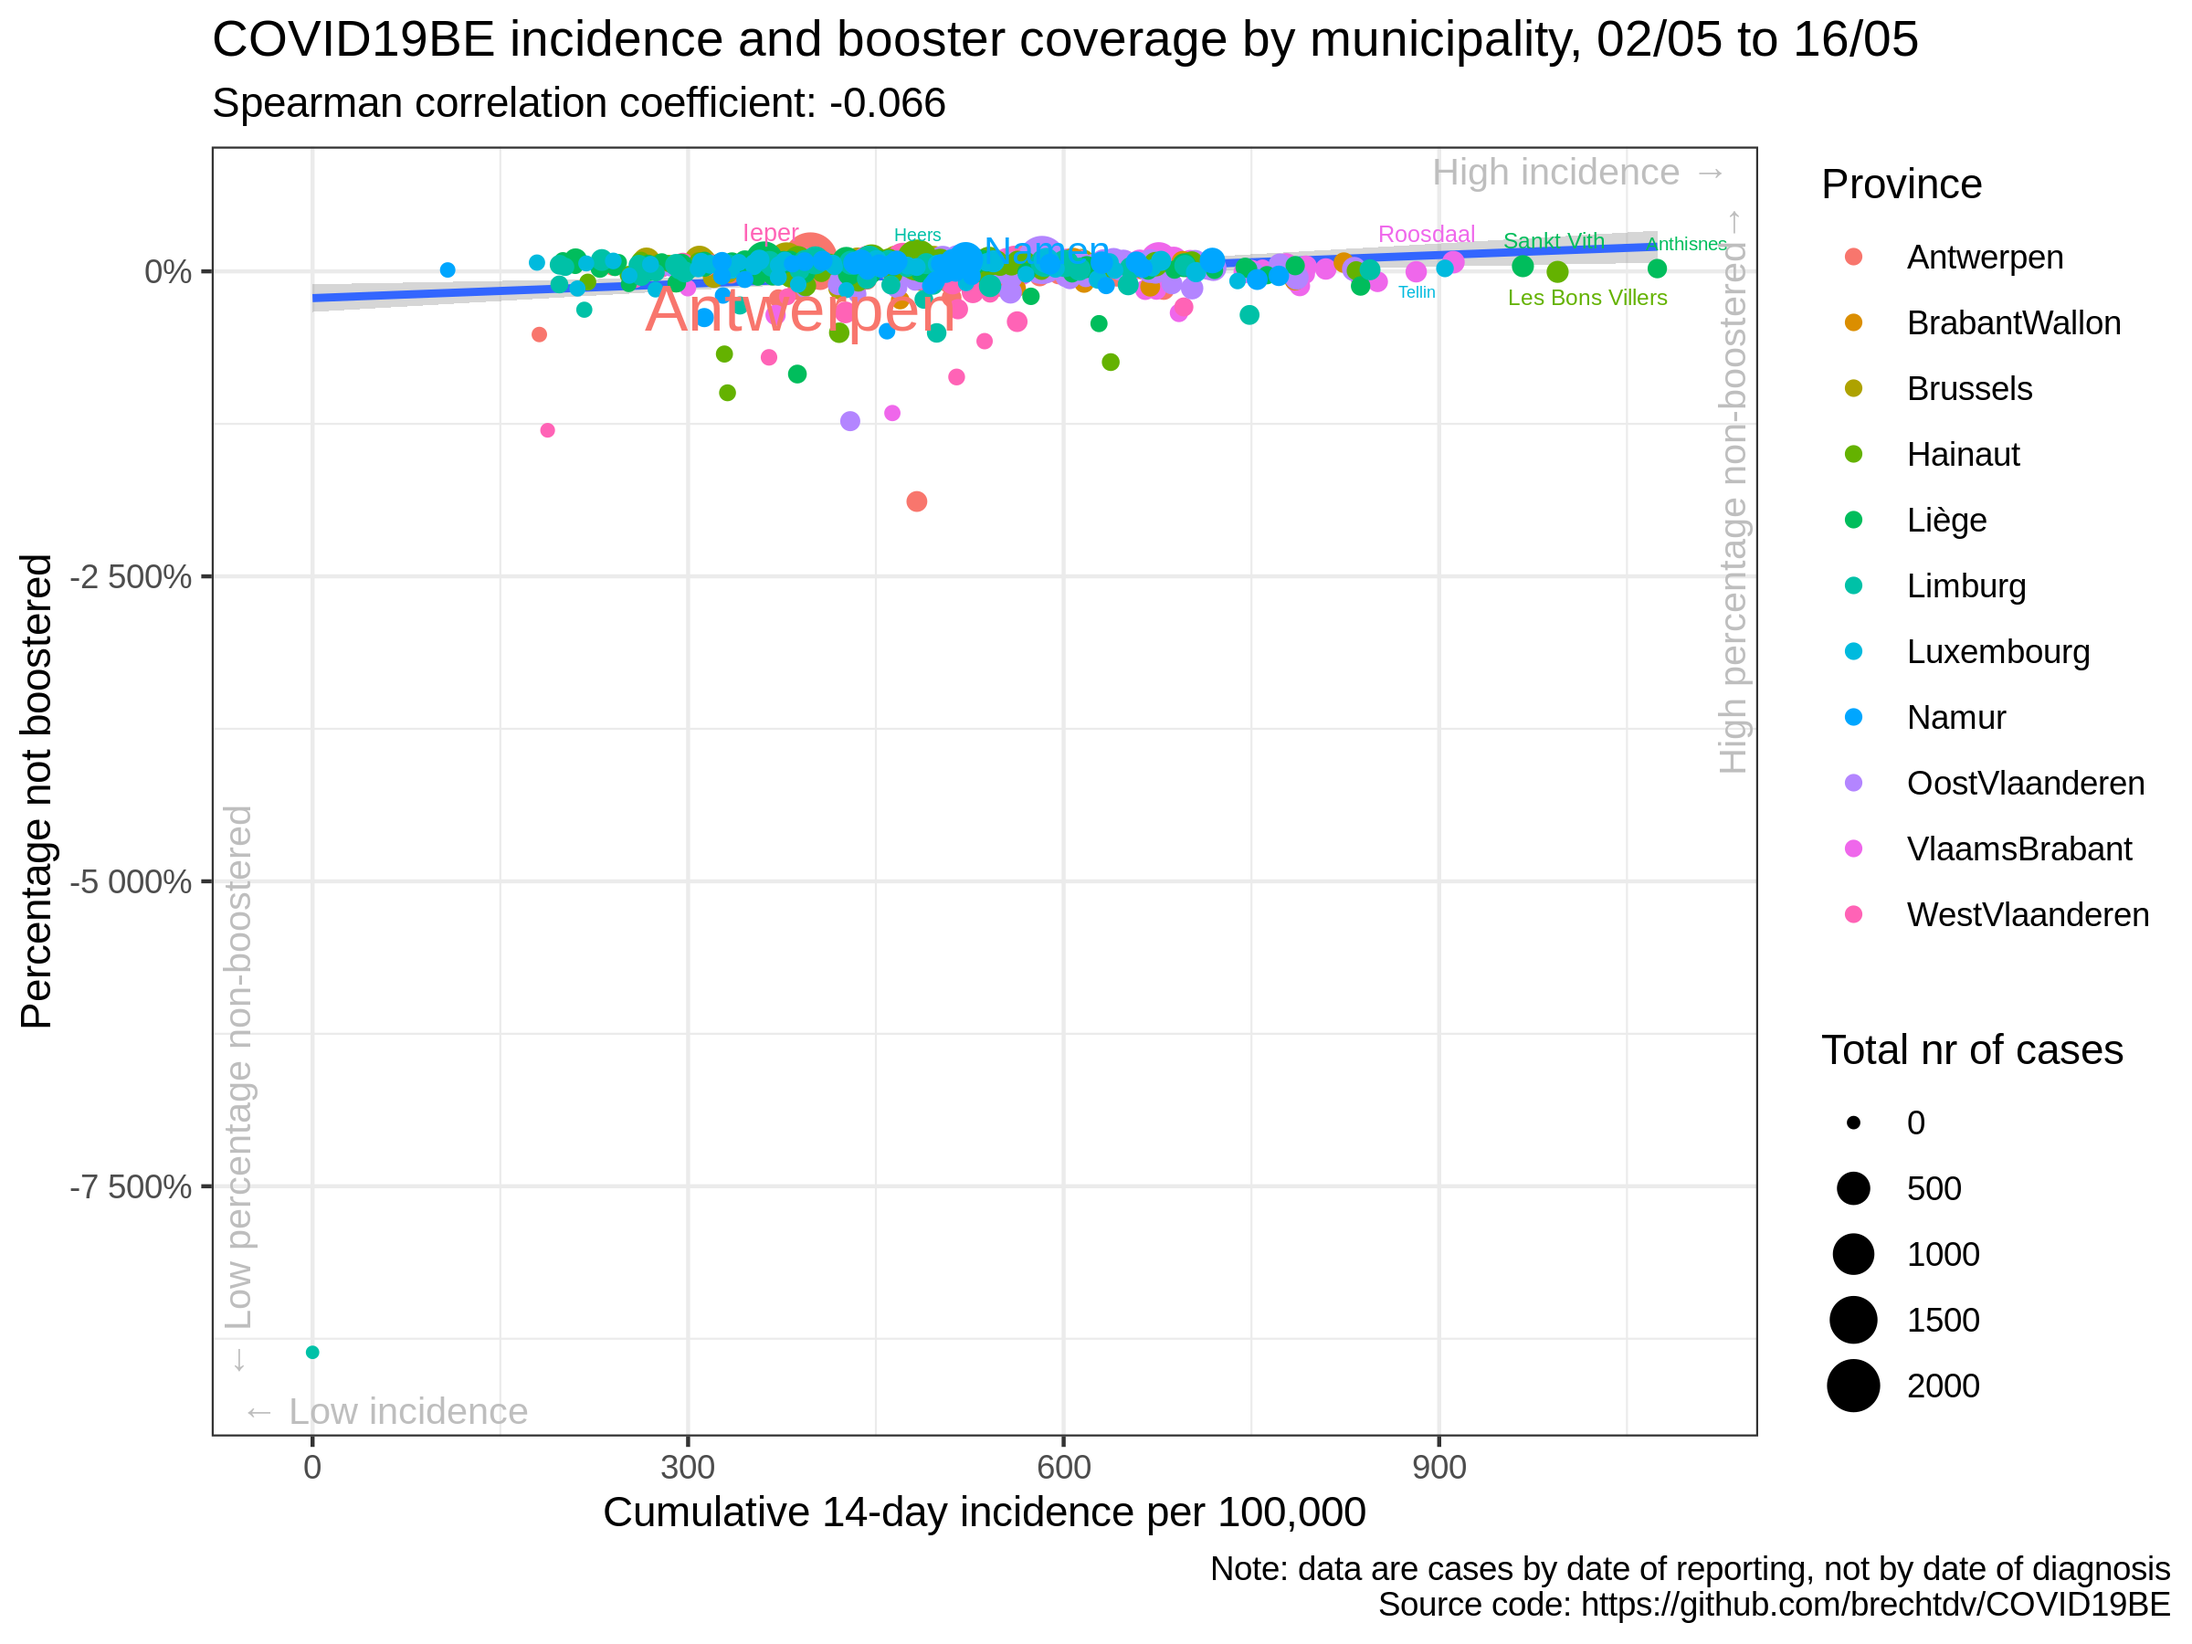
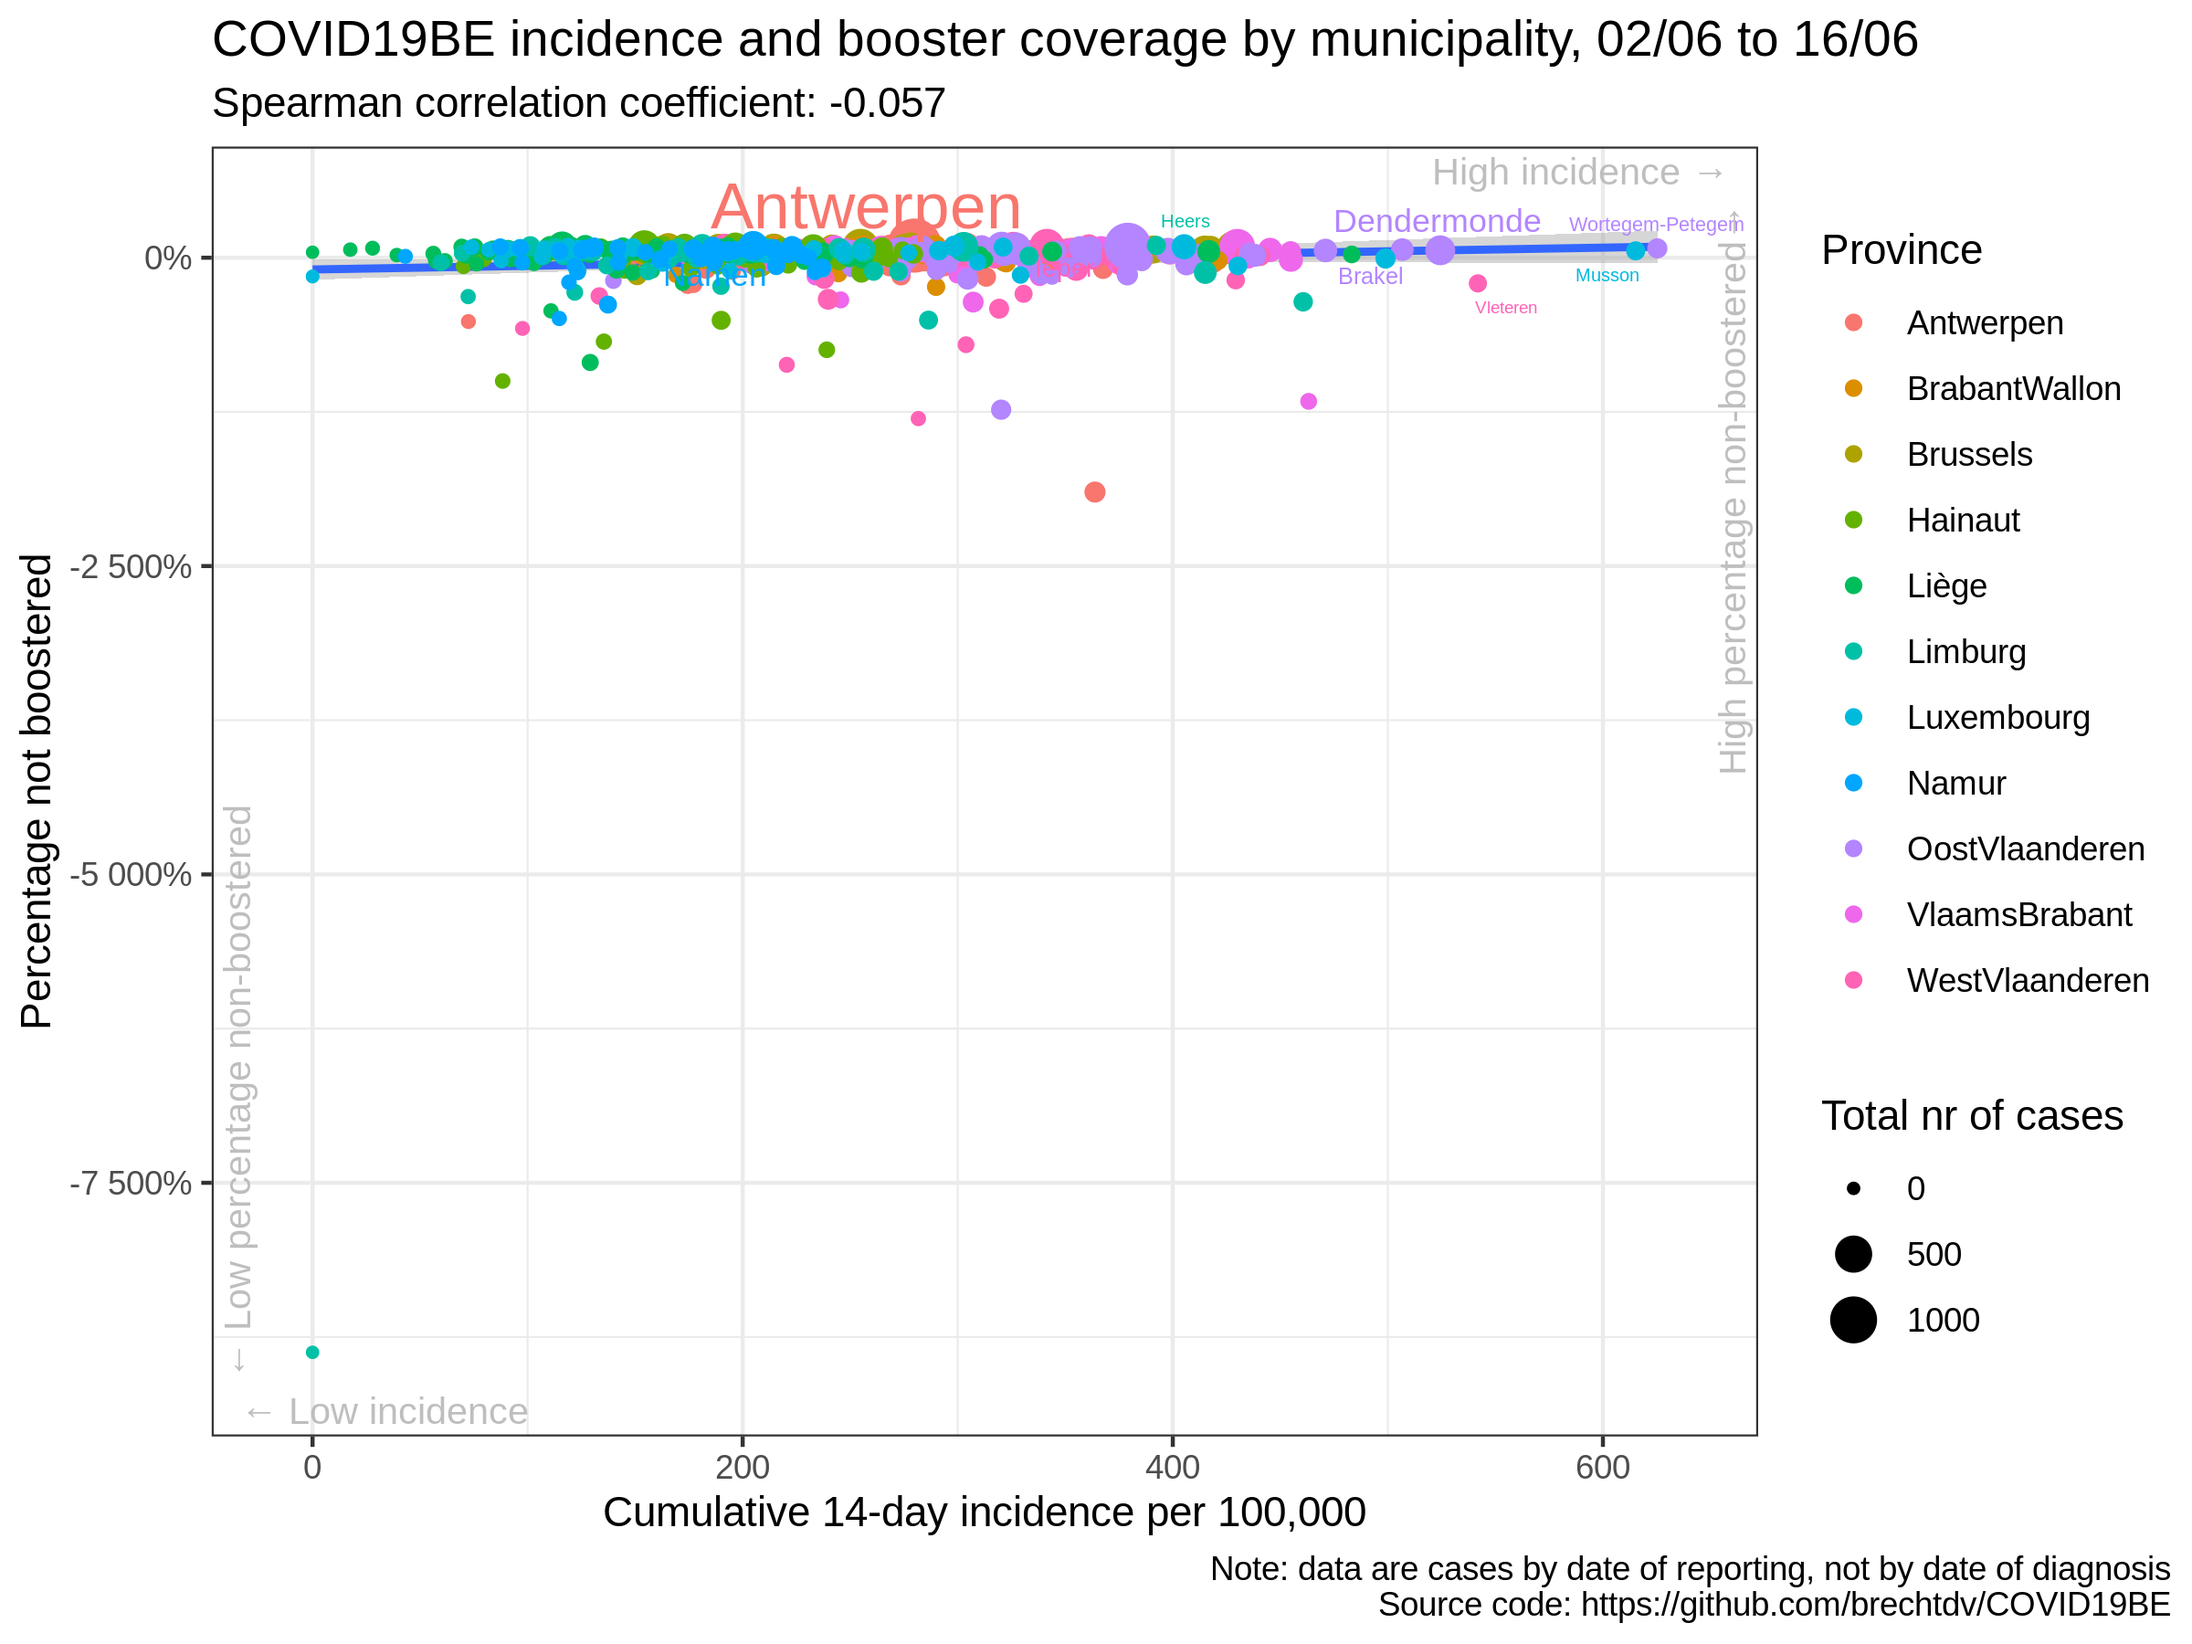
update situation

diff --git a/vaccination/README.md b/vaccination/README.md
@@ -17,35 +17,35 @@
 
 |                | estimate.rho | p.value |
 | :------------- | -----------: | ------: |
-| Antwerpen      |      \-0.066 |   0.589 |
-| BrabantWallon  |      \-0.101 |   0.616 |
-| Brussels       |      \-0.216 |   0.373 |
-| Hainaut        |        0.148 |   0.223 |
-| Liège          |      \-0.274 |   0.012 |
-| Limburg        |        0.002 |   0.993 |
-| Luxembourg     |      \-0.089 |   0.565 |
-| Namur          |        0.054 |   0.752 |
-| OostVlaanderen |        0.224 |   0.085 |
-| VlaamsBrabant  |      \-0.012 |   0.927 |
-| WestVlaanderen |      \-0.165 |   0.192 |
-| Belgium        |      \-0.051 |   0.217 |
+| Antwerpen      |      \-0.027 |   0.825 |
+| BrabantWallon  |        0.074 |   0.713 |
+| Brussels       |        0.165 |   0.498 |
+| Hainaut        |        0.015 |   0.905 |
+| Liège          |      \-0.105 |   0.344 |
+| Limburg        |        0.069 |   0.662 |
+| Luxembourg     |      \-0.029 |   0.851 |
+| Namur          |        0.018 |   0.915 |
+| OostVlaanderen |        0.213 |   0.103 |
+| VlaamsBrabant  |        0.063 |   0.618 |
+| WestVlaanderen |      \-0.023 |   0.854 |
+| Belgium        |      \-0.024 |   0.559 |
 
 ### Correlation cumulative incidence vs booster rate
 
 |                | estimate.rho | p.value |
 | :------------- | -----------: | ------: |
-| Antwerpen      |      \-0.053 |   0.665 |
-| BrabantWallon  |      \-0.072 |   0.720 |
-| Brussels       |      \-0.282 |   0.240 |
-| Hainaut        |        0.150 |   0.218 |
-| Liège          |      \-0.282 |   0.010 |
-| Limburg        |        0.003 |   0.988 |
-| Luxembourg     |      \-0.089 |   0.563 |
-| Namur          |        0.062 |   0.715 |
-| OostVlaanderen |        0.230 |   0.078 |
-| VlaamsBrabant  |      \-0.022 |   0.864 |
-| WestVlaanderen |      \-0.169 |   0.182 |
-| Belgium        |      \-0.066 |   0.111 |
+| Antwerpen      |      \-0.018 |   0.883 |
+| BrabantWallon  |        0.089 |   0.660 |
+| Brussels       |        0.137 |   0.575 |
+| Hainaut        |        0.010 |   0.935 |
+| Liège          |      \-0.109 |   0.325 |
+| Limburg        |        0.069 |   0.663 |
+| Luxembourg     |      \-0.048 |   0.757 |
+| Namur          |        0.039 |   0.820 |
+| OostVlaanderen |        0.213 |   0.102 |
+| VlaamsBrabant  |        0.062 |   0.621 |
+| WestVlaanderen |      \-0.020 |   0.877 |
+| Belgium        |      \-0.057 |   0.168 |
 
 ### Data source
 
